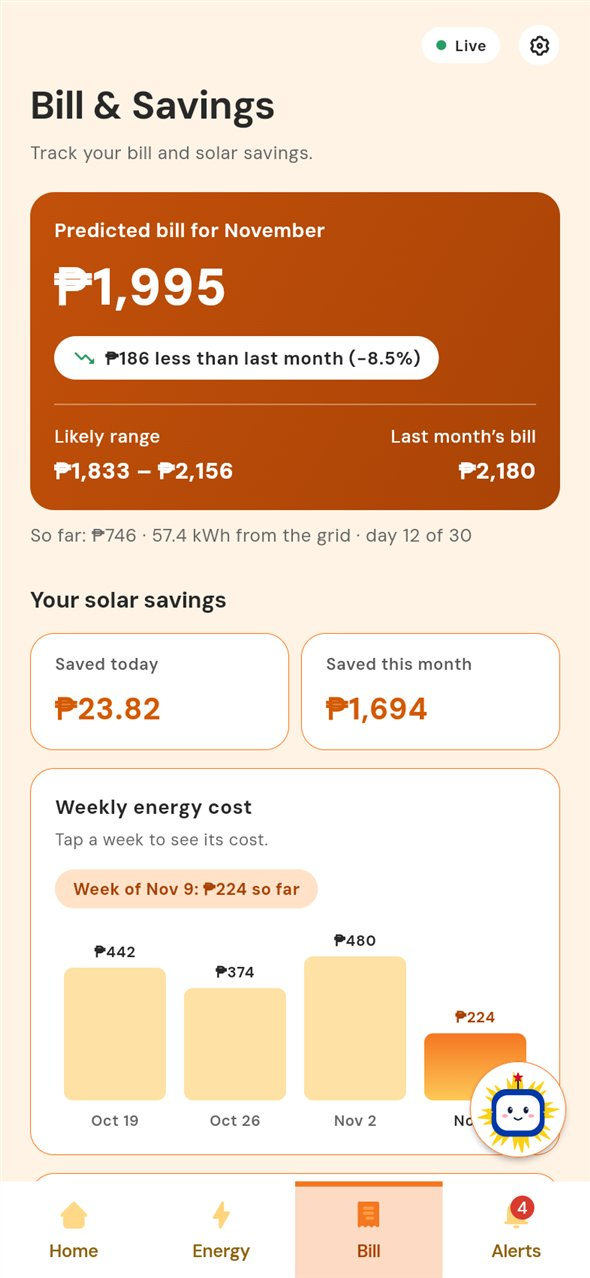
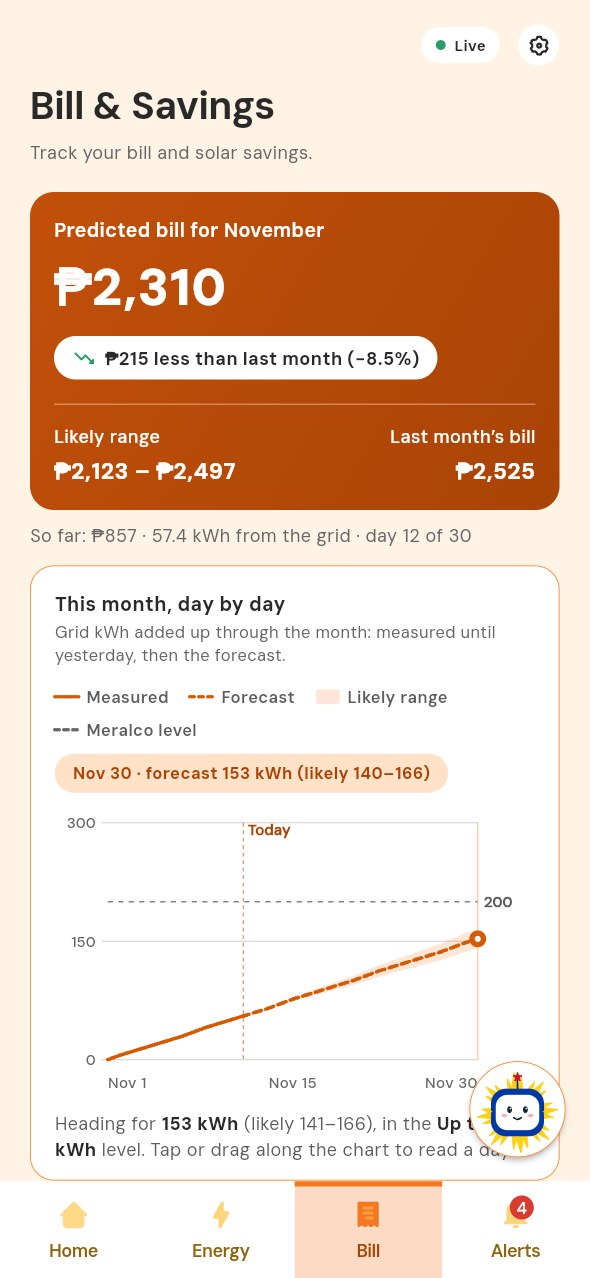
Landing page: features from the presentation, current app screens
The page described a solar-only monitor with the old demo numbers. It now
follows SOLARIS_PRESENTATION.md:

- Hero: inverter, smart meter, or both; bill forecast with the rate-level
  warning; the strip names the three setups, the routine and Mira's sources.
- New #features: one card per feature slide (live monitoring, bill and
  coming months, 48-hour solar and battery, tips and system check, the
  household, smart meter mode, Mira with sources, alerts).
- New #meter (smart meter mode and the three setups) and #meralco (what
  works today vs. needs a partnership, and privacy).
- Ask Mira: sources, honest limits, the script's questions.
- Gallery: adds Solar tips, Your household and System check.
- FAQ: which homes, meters, published rate, "Does Meralco see my data?".
- Numbers match the app at Meralco's published rate (857 / 2,310 /
  2,123-2,497); every phone screen recaptured from the current app,
  day and night, plus the new tips, household, check and meter screens.
- Presentation: meter level-warning saving is 2,369 at that rate.

diff --git a/landing/index.html b/landing/index.html
@@ -3,11 +3,11 @@
 <head>
 <meta charset="utf-8">
 <meta name="viewport" content="width=device-width, initial-scale=1, viewport-fit=cover">
-<title>Solaris: solar monitor and app for Filipino homes</title>
-<meta name="description" content="Solaris reads your hybrid inverter every 5 seconds, forecasts the Meralco bill and has Mira explain it in Taglish, all on your home network.">
+<title>Solaris: energy monitor and app for Filipino homes</title>
+<meta name="description" content="Solaris reads your hybrid inverter, your smart meter, or both. It forecasts the Meralco bill, warns before a rate level, learns your home's routine, and Mira explains it in Taglish, all on your home network.">
 <meta property="og:type" content="website">
-<meta property="og:title" content="Solaris: solar monitor and app for Filipino homes">
-<meta property="og:description" content="Live solar, battery and grid readings, a bill forecast and Mira, an assistant that answers in Taglish.">
+<meta property="og:title" content="Solaris: energy monitor and app for Filipino homes">
+<meta property="og:description" content="Live solar, battery, grid and meter readings, a Meralco bill forecast, solar tips and Mira, an assistant that answers in Taglish and shows her sources.">
 <meta property="og:image" content="share.jpg">
 <meta name="twitter:card" content="summary_large_image">
 <link rel="icon" href="favicon.svg" type="image/svg+xml">
@@ -459,6 +459,36 @@ html[data-theme="dark"][data-ground="orange"] { --ground-bg: #1a2440; --ground-s
   footer.closing .close__word { margin-top: var(--s-6); line-height: 1.02; font-size: clamp(56px, 11vw, 168px) !important; font-weight: 600; letter-spacing: -0.05em;
                  background: linear-gradient(100deg, #fff8f0 30%, #ffb27a 70%, #f47721); -webkit-background-clip: text; background-clip: text; color: transparent !important; -webkit-text-fill-color: transparent; }
   .footer__col h3 { font-weight: 600; }
+
+  /* ================= what Solaris does: one card per feature ================= */
+  .feats { display: grid; grid-template-columns: repeat(4, minmax(0, 1fr)); gap: 16px; margin: var(--s-7) 0 0; padding: 0; list-style: none; }
+  .feat { display: grid; align-content: start; gap: 10px; padding: 22px 20px; border-radius: 20px; background: var(--p-bg); box-shadow: inset 0 0 0 1px var(--line); }
+  .feat__ic { display: grid; place-items: center; width: 40px; height: 40px; border-radius: 12px; color: var(--accent-text); background: color-mix(in oklab, #f47721 14%, transparent); }
+  .feat__ic svg { width: 22px; height: 22px; }
+  .feat h3 { margin: 4px 0 0; font-size: 18px; font-weight: 600; line-height: 1.25; }
+  .feat p { margin: 0; font-size: 15px; line-height: 1.5; color: var(--muted); }
+  @media (max-width: 1023px) { .feats { grid-template-columns: repeat(2, minmax(0, 1fr)); } }
+  @media (max-width: 559px) { .feats { grid-template-columns: minmax(0, 1fr); } }
+
+  /* ================= three setups ================= */
+  .setups { display: grid; grid-template-columns: repeat(3, minmax(0, 1fr)); gap: 12px; margin: 0; padding: 0; list-style: none; }
+  .setups li { display: grid; gap: 4px; align-content: start; padding: 14px 16px; border-radius: 16px; background: var(--p-surface); box-shadow: inset 0 0 0 1px var(--line); }
+  .setups b { font-weight: 600; }
+  .setups span { font-size: 14px; line-height: 1.45; color: var(--muted); }
+  @media (max-width: 639px) { .setups { grid-template-columns: minmax(0, 1fr); } }
+  #meter .showcase__phones::before { background: radial-gradient(60% 55% at 40% 40%, rgb(255 200 87 / .3), transparent 70%), linear-gradient(160deg, var(--p-surface), transparent); }
+
+  /* ================= for Meralco: what works today ================= */
+  .serve { display: grid; grid-template-columns: repeat(2, minmax(0, 1fr)); gap: 12px 24px; margin: var(--s-7) 0 0; padding: 0; list-style: none; }
+  .serve li { display: grid; grid-template-columns: minmax(0, 1fr) auto; gap: 4px 16px; align-items: start; padding: 16px 0; border-top: 1px solid var(--line); }
+  .serve b { font-weight: 600; }
+  .serve p { grid-column: 1 / -1; margin: 0; font-size: 15px; line-height: 1.5; color: var(--muted); }
+  .serve em { font-style: normal; font-size: 13px; font-weight: 600; white-space: nowrap; padding: 3px 10px; border-radius: 99px; color: var(--accent-text); background: color-mix(in oklab, #f47721 12%, transparent); }
+  .serve em.is-next { color: var(--muted); background: color-mix(in oklab, var(--ink) 7%, transparent); }
+  .privacy { display: flex; gap: 14px; align-items: flex-start; margin-top: var(--s-6); padding: 18px 20px; border-radius: 16px; background: var(--p-surface); box-shadow: inset 0 0 0 1px var(--line); }
+  .privacy svg { flex: none; width: 22px; height: 22px; margin-top: 2px; color: var(--accent-text); }
+  .privacy p { margin: 0; max-width: 80ch; }
+  @media (max-width: 767px) { .serve { grid-template-columns: minmax(0, 1fr); } }
 </style>
 </head>
 <body>
@@ -473,9 +503,10 @@ html[data-theme="dark"][data-ground="orange"] { --ground-bg: #1a2440; --ground-s
     <a class="skip-link" href="#top">Skip to content</a>
     <a class="nav__logo" href="#top"><span class="mark" data-mark="ring" aria-hidden="true"></span>Solaris</a>
     <nav class="nav__links" aria-label="Main">
-      <div class="nav__item"><a class="nav__link" href="#top">Home</a></div>
+      <div class="nav__item"><a class="nav__link" href="#features">Features</a></div>
       <div class="nav__item"><a class="nav__link" href="#app">Ask Mira</a></div>
       <div class="nav__item"><a class="nav__link" href="#forecast">The app</a></div>
+      <div class="nav__item"><a class="nav__link" href="#meter">No solar yet?</a></div>
       <div class="nav__item"><a class="nav__link" href="#setup">Setup</a></div>
       <div class="nav__item"><a class="nav__link" href="#questions">Questions</a></div>
     </nav>
@@ -502,25 +533,76 @@ html[data-theme="dark"][data-ground="orange"] { --ground-bg: #1a2440; --ground-s
         </div>
         <div class="ui gcard">
           <div class="gcard__head"><span>November bill</span><span class="gcard__meta">Forecast</span></div>
-          <div class="gcard__row"><div><small>So far</small><b>&#8369;746</b></div><div><small>Likely</small><b>&#8369;1,995</b></div><div><small>Range</small><b>&#8369;1.8k&ndash;2.2k</b></div></div>
+          <div class="gcard__row"><div><small>So far</small><b>&#8369;857</b></div><div><small>Likely</small><b>&#8369;2,310</b></div><div><small>Range</small><b>&#8369;2.1k&ndash;2.5k</b></div></div>
         </div>
       </div>
       <div class="studio__main">
         <div class="studio__copy">
-          <h1 id="hero-h">Your home solar, made clear</h1>
-          <p class="studio__lead">Solaris reads your hybrid inverter every 5 seconds, forecasts your Meralco bill and tells you how long the battery lasts in a brownout. Mira explains it in Taglish.</p>
+          <h1 id="hero-h">Your home&rsquo;s energy, made clear</h1>
+          <p class="studio__lead">Solaris reads your inverter, your smart meter, or both. It forecasts your Meralco bill, warns before a costlier rate level, and Mira explains it all in Taglish.</p>
         </div>
         <div class="studio__ctas">
           <a class="btn btn--primary" href="mailto:hello@solaris.example?subject=Solaris%20demo">Book a demo<svg class="up" viewBox="0 0 12 12" aria-hidden="true"><path d="M3.5 8.5 8.5 3.5M4.5 3.5h4v4" fill="none" stroke="currentColor" stroke-width="1.5" stroke-linecap="round" stroke-linejoin="round"/></svg></a>
-          <a class="studio__link" href="#app">See how it works<svg class="up" viewBox="0 0 12 12" aria-hidden="true"><path d="M3.5 8.5 8.5 3.5M4.5 3.5h4v4" fill="none" stroke="currentColor" stroke-width="1.5" stroke-linecap="round" stroke-linejoin="round"/></svg></a>
+          <a class="studio__link" href="#features">See what it does<svg class="up" viewBox="0 0 12 12" aria-hidden="true"><path d="M3.5 8.5 8.5 3.5M4.5 3.5h4v4" fill="none" stroke="currentColor" stroke-width="1.5" stroke-linecap="round" stroke-linejoin="round"/></svg></a>
         </div>
       </div>
       <ul class="studio__strip">
-        <li><svg viewBox="0 0 24 24" fill="none" stroke="currentColor" stroke-width="1.6" stroke-linecap="round" stroke-linejoin="round" aria-hidden="true"><path d="M13 2 4 14h7l-1 8 9-12h-7z"/></svg>Live readings every 5 seconds</li>
-        <li><svg viewBox="0 0 24 24" fill="none" stroke="currentColor" stroke-width="1.6" stroke-linecap="round" stroke-linejoin="round" aria-hidden="true"><path d="M6 2.5h12v19l-3-2-3 2-3-2-3 2z"/><path d="M9 8h6M9 12h6M9 16h3"/></svg>Meralco bill forecast</li>
+        <li><svg viewBox="0 0 24 24" fill="none" stroke="currentColor" stroke-width="1.6" stroke-linecap="round" stroke-linejoin="round" aria-hidden="true"><path d="M13 2 4 14h7l-1 8 9-12h-7z"/></svg>Solar, a meter, or both</li>
+        <li><svg viewBox="0 0 24 24" fill="none" stroke="currentColor" stroke-width="1.6" stroke-linecap="round" stroke-linejoin="round" aria-hidden="true"><path d="M6 2.5h12v19l-3-2-3 2-3-2-3 2z"/><path d="M9 8h6M9 12h6M9 16h3"/></svg>Bill forecast, rate-level warning</li>
         <li><svg viewBox="0 0 24 24" fill="none" stroke="currentColor" stroke-width="1.6" stroke-linecap="round" stroke-linejoin="round" aria-hidden="true"><rect x="2.5" y="7" width="16" height="10" rx="2"/><path d="M21.5 10.5v3M6 10.5v3M9.5 10.5v3"/></svg>Brownout battery timer</li>
-        <li><svg viewBox="0 0 24 24" fill="none" stroke="currentColor" stroke-width="1.6" stroke-linecap="round" stroke-linejoin="round" aria-hidden="true"><circle cx="12" cy="12" r="4"/><path d="M12 2v2.5M12 19.5V22M4.9 4.9l1.8 1.8M17.3 17.3l1.8 1.8M2 12h2.5M19.5 12H22M4.9 19.1l1.8-1.8M17.3 6.7l1.8-1.8"/></svg>48-hour solar outlook</li>
-        <li><svg viewBox="0 0 24 24" fill="none" stroke="currentColor" stroke-width="1.6" stroke-linecap="round" stroke-linejoin="round" aria-hidden="true"><path d="M4 5.5h16v10H9l-5 4z"/><path d="M8 9.5h8M8 12.5h5"/></svg>Answers in Taglish from Mira</li>
+        <li><svg viewBox="0 0 24 24" fill="none" stroke="currentColor" stroke-width="1.6" stroke-linecap="round" stroke-linejoin="round" aria-hidden="true"><path d="M3 11.5 12 4l9 7.5"/><path d="M5.5 10v9.5h13V10"/><path d="M10 19.5v-5h4v5"/></svg>Learns your home&rsquo;s routine</li>
+        <li><svg viewBox="0 0 24 24" fill="none" stroke="currentColor" stroke-width="1.6" stroke-linecap="round" stroke-linejoin="round" aria-hidden="true"><path d="M4 5.5h16v10H9l-5 4z"/><path d="M8 9.5h8M8 12.5h5"/></svg>Mira answers, with sources</li>
+      </ul>
+    </div>
+  </section>
+
+  <section class="section section--alt" id="features" aria-labelledby="features-h">
+    <div class="wrap">
+      <div class="split-head">
+        <div><p class="eyebrow">What Solaris does</p><h2 id="features-h">Where your energy and your money go, in one app</h2></div>
+        <div><p>Owning solar, or paying a Meralco bill, does not mean understanding your energy. Solaris shows what is happening now, what happened before, and what is coming next.</p></div>
+      </div>
+      <ul class="feats">
+        <li class="feat">
+          <span class="feat__ic"><svg viewBox="0 0 24 24" fill="none" stroke="currentColor" stroke-width="1.7" stroke-linecap="round" stroke-linejoin="round" aria-hidden="true"><path d="M13 2 4 14h7l-1 8 9-12h-7z"/></svg></span>
+          <h3>Live home monitoring</h3>
+          <p>Solar, home use, battery and the grid every 5 seconds, with the grid labelled importing or exporting, today&rsquo;s savings and the inverter&rsquo;s health.</p>
+        </li>
+        <li class="feat">
+          <span class="feat__ic"><svg viewBox="0 0 24 24" fill="none" stroke="currentColor" stroke-width="1.7" stroke-linecap="round" stroke-linejoin="round" aria-hidden="true"><path d="M6 2.5h12v19l-3-2-3 2-3-2-3 2z"/><path d="M9 8h6M9 12h6M9 16h3"/></svg></span>
+          <h3>The bill, before it arrives</h3>
+          <p>Cost so far and the month-end forecast with a low and a high, priced with Meralco&rsquo;s rate levels, plus the next three months, marked as estimates.</p>
+        </li>
+        <li class="feat">
+          <span class="feat__ic"><svg viewBox="0 0 24 24" fill="none" stroke="currentColor" stroke-width="1.7" stroke-linecap="round" stroke-linejoin="round" aria-hidden="true"><circle cx="12" cy="12" r="4"/><path d="M12 2v2.5M12 19.5V22M4.9 4.9l1.8 1.8M17.3 17.3l1.8 1.8M2 12h2.5M19.5 12H22M4.9 19.1l1.8-1.8M17.3 6.7l1.8-1.8"/></svg></span>
+          <h3>Solar and battery, 48 hours ahead</h3>
+          <p>Hourly sun from the weather, calibrated to your own panels, gives the battery level, grid use and brownout runtime for the next two days.</p>
+        </li>
+        <li class="feat">
+          <span class="feat__ic"><svg viewBox="0 0 24 24" fill="none" stroke="currentColor" stroke-width="1.7" stroke-linecap="round" stroke-linejoin="round" aria-hidden="true"><path d="M12 21c-4-3-7-6.5-7-10.5a7 7 0 0 1 14 0C19 14.5 16 18 12 21z"/><path d="M12 7v7M9 11l3 3 3-3"/></svg></span>
+          <h3>Solar tips and a system check</h3>
+          <p>Today&rsquo;s sunniest window, what to run right now, habits ranked by the pesos they save, CO&#8322; avoided, and whether your battery still fits the home.</p>
+        </li>
+        <li class="feat">
+          <span class="feat__ic"><svg viewBox="0 0 24 24" fill="none" stroke="currentColor" stroke-width="1.7" stroke-linecap="round" stroke-linejoin="round" aria-hidden="true"><path d="M3 11.5 12 4l9 7.5"/><path d="M5.5 10v9.5h13V10"/><path d="M10 19.5v-5h4v5"/></svg></span>
+          <h3>Learns the household</h3>
+          <p>From power readings alone: when the family wakes, leaves and sleeps, the always-on load in pesos, and a new appliance before the bill shows it.</p>
+        </li>
+        <li class="feat">
+          <span class="feat__ic"><svg viewBox="0 0 24 24" fill="none" stroke="currentColor" stroke-width="1.7" stroke-linecap="round" stroke-linejoin="round" aria-hidden="true"><rect x="5" y="3" width="14" height="18" rx="2.5"/><path d="M8.5 8h7M8.5 12h7"/><circle cx="12" cy="16.5" r="1"/></svg></span>
+          <h3>Smart meter mode</h3>
+          <p>No solar yet? Solaris works with a smart meter or the Meralco meter alone: voltage quality, usage pattern, and an early warning before a costlier rate level.</p>
+        </li>
+        <li class="feat">
+          <span class="feat__ic"><svg viewBox="0 0 24 24" fill="none" stroke="currentColor" stroke-width="1.7" stroke-linecap="round" stroke-linejoin="round" aria-hidden="true"><path d="M4 5.5h16v10H9l-5 4z"/><path d="M8 9.5h8M8 12.5h5"/></svg></span>
+          <h3>Mira, with sources</h3>
+          <p>Ask in Taglish. Mira answers from your own readings, shows where every number comes from, and says plainly when something is only an estimate.</p>
+        </li>
+        <li class="feat">
+          <span class="feat__ic"><svg viewBox="0 0 24 24" fill="none" stroke="currentColor" stroke-width="1.7" stroke-linecap="round" stroke-linejoin="round" aria-hidden="true"><path d="M6 16V11a6 6 0 0 1 12 0v5l1.5 2h-15z"/><path d="M10 20.5a2 2 0 0 0 4 0"/></svg></span>
+          <h3>Alerts that say what to do</h3>
+          <p>Brownout and power back, low battery, heat, inverter faults, a device offline or a new load, each with the next step, even if the app was closed.</p>
+        </li>
       </ul>
     </div>
   </section>
@@ -530,17 +612,19 @@ html[data-theme="dark"][data-ground="orange"] { --ground-bg: #1a2440; --ground-s
       <div class="showcase__copy">
         <p class="eyebrow">Ask Mira</p>
         <h2 id="app-h">Ask about your power in Taglish</h2>
-        <p>Mira reads your live numbers before she answers. Ask &ldquo;Bakit mataas ang bill ko?&rdquo; and she gives your bill so far, the forecast and the hours you buy most from the grid, with where each figure comes from.</p>
+        <p>Mira reads your own numbers before she answers. Ask &ldquo;Bakit mataas ang bill ko?&rdquo; and she gives your bill so far, the forecast and the hours you buy most from the grid. Under every answer, &ldquo;Where this answer comes from&rdquo; lists the readings behind it; tap one to open that screen.</p>
+        <p>She is honest about her limits: estimates are called estimates, and a bill a year away gets an explanation, not a guess. Mira runs on the home&rsquo;s own computer, so your questions stay private.</p>
         <ul class="asks" aria-label="Questions people ask Mira">
           <li lang="fil">Bakit mataas ang bill ko?</li>
-          <li lang="fil">Kakayanin ba ng battery mamaya?</li>
-          <li lang="fil">Magkano ang natipid ko dahil sa solar?</li>
+          <li lang="fil">Magkano ang bill ko sa Disyembre?</li>
+          <li lang="fil">Nasaang Meralco level na ako ngayong buwan?</li>
+          <li lang="fil">May bago ba kaming appliance?</li>
         </ul>
         <a class="link" href="#forecast">See the other screens</a>
       </div>
       <div class="showcase__phones">
-        <div class="phone phone--back"><img class="shot shot--day" src="assets/app/home-day.jpg" alt="The Solaris Home screen: the house with solar at 3.1 kW, home use 1.8 kW, the battery at 78% and charging" width="590" height="1278" loading="lazy"><img class="shot shot--night" src="assets/app/home-night.jpg" alt="" aria-hidden="true" width="590" height="1278" loading="lazy"></div>
-        <div class="phone phone--front"><img class="shot shot--day" src="assets/app/ask-day.jpg" alt="Ask Mira: the question Bakit mataas ang bill ko, and Mira answering that the bill is 746 pesos so far with a 1,995 peso forecast, with her three sources" width="590" height="1278" loading="lazy"><img class="shot shot--night" src="assets/app/ask-night.jpg" alt="" aria-hidden="true" width="590" height="1278" loading="lazy"></div>
+        <div class="phone phone--back"><img class="shot shot--day" src="assets/app/home-day.jpg" alt="The Solaris Home screen: the house with solar at 3.1 kW, home use 1.8 kW, the battery at 78% and charging, 27.60 pesos saved today at 15.06 pesos per kWh" width="590" height="1278" loading="lazy"><img class="shot shot--night" src="assets/app/home-night.jpg" alt="" aria-hidden="true" width="590" height="1278" loading="lazy"></div>
+        <div class="phone phone--front"><img class="shot shot--day" src="assets/app/ask-day.jpg" alt="Ask Mira: Mira answering that the bill is 857 pesos so far with a 2,310 peso forecast, and the three sources her answer comes from" width="590" height="1278" loading="lazy"><img class="shot shot--night" src="assets/app/ask-night.jpg" alt="" aria-hidden="true" width="590" height="1278" loading="lazy"></div>
       </div>
     </div>
   </section>
@@ -551,14 +635,14 @@ html[data-theme="dark"][data-ground="orange"] { --ground-bg: #1a2440; --ground-s
         <div class="billcard__copy">
           <p class="eyebrow eyebrow--on-brand">Bill &amp; Savings</p>
           <h2 id="bill-h">Know the bill before it arrives</h2>
-          <p>Solaris counts your grid use every day at your Meralco rate and shows where the month is likely to end, with a low and a high beside it.</p>
+          <p>Solaris counts your grid use every day, prices it the way Meralco does, with the rate level the whole month lands in, and shows where the month is likely to end, with a low and a high beside it. The next three months follow, marked as estimates.</p>
           <dl class="billcard__facts">
-            <div><dt>So far</dt><dd>&#8369;746</dd></div>
-            <div><dt>Predicted for November</dt><dd>&#8369;1,995</dd></div>
-            <div><dt>Likely range</dt><dd>&#8369;1,833&ndash;&#8369;2,156</dd></div>
+            <div><dt>So far</dt><dd>&#8369;857</dd></div>
+            <div><dt>Predicted for November</dt><dd>&#8369;2,310</dd></div>
+            <div><dt>Likely range</dt><dd>&#8369;2,123&ndash;&#8369;2,497</dd></div>
           </dl>
         </div>
-        <div class="billcard__phone"><div class="phone "><img class="shot shot--day" src="assets/app/bill-day.jpg" alt="The Bill and Savings screen: 1,995 pesos predicted for November, 186 pesos less than last month, a likely range of 1,833 to 2,156 pesos, and 1,694 pesos saved this month" width="590" height="1278" loading="lazy"><img class="shot shot--night" src="assets/app/bill-night.jpg" alt="" aria-hidden="true" width="590" height="1278" loading="lazy"></div></div>
+        <div class="billcard__phone"><div class="phone "><img class="shot shot--day" src="assets/app/bill-day.jpg" alt="The Bill and Savings screen: 2,310 pesos predicted for November, 215 pesos less than last month, a likely range of 2,123 to 2,497 pesos, and last month's bill of 2,525 pesos" width="590" height="1278" loading="lazy"><img class="shot shot--night" src="assets/app/bill-night.jpg" alt="" aria-hidden="true" width="590" height="1278" loading="lazy"></div></div>
       </div>
     </div>
   </section>
@@ -567,7 +651,7 @@ html[data-theme="dark"][data-ground="orange"] { --ground-bg: #1a2440; --ground-s
     <div class="wrap">
       <div class="split-head">
         <div><p class="eyebrow">Inside the app</p><h2 id="forecast-h">The Solaris app, screen by screen</h2></div>
-        <div><p>Real screens from the app, in Taglish and English. It follows the time of day: cream by day, navy at night.</p></div>
+        <div><p>Real screens from the app, in Taglish and English, cream by day and navy at night.</p></div>
       </div>
       <div class="gallery">
         <article class="gallery__item">
@@ -576,15 +660,71 @@ html[data-theme="dark"][data-ground="orange"] { --ground-bg: #1a2440; --ground-s
           <p>Solar, home use and the grid by day, week or month, with how much of your power was your own.</p>
         </article>
         <article class="gallery__item">
+          <div class="phone "><img class="shot shot--day" src="assets/app/tips-day.jpg" alt="Solar tips on Home: 151 kg of CO2 avoided this month, like 7 trees growing for a year, and today's sunniest window, 10AM to 1PM, with 5.9 kWh of extra solar" width="590" height="1278" loading="lazy"><img class="shot shot--night" src="assets/app/tips-night.jpg" alt="" aria-hidden="true" width="590" height="1278" loading="lazy"></div>
+          <h3>Use the sun you already have</h3>
+          <p>Today&rsquo;s best window for laundry and ironing, what to run right now, habits ranked by what they save, and the CO&#8322; your panels avoided.</p>
+        </article>
+        <article class="gallery__item">
+          <div class="phone "><img class="shot shot--day" src="assets/app/household-day.jpg" alt="Your household on Home: probably no one home right now, and a new appliance, about 1.1 kW more every night from 9PM to 2AM since Nov 7, up to 2,485 pesos a month" width="590" height="1278" loading="lazy"><img class="shot shot--night" src="assets/app/household-night.jpg" alt="" aria-hidden="true" width="590" height="1278" loading="lazy"></div>
+          <h3>Spot a new appliance early</h3>
+          <p>Your routine, who is likely home now, the always-on load in pesos, and a new nightly load before the bill shows it. It never leaves the house.</p>
+        </article>
+        <article class="gallery__item">
+          <div class="phone "><img class="shot shot--day" src="assets/app/check-day.jpg" alt="The system check on Bill: an upgrade worth considering, a 5 kWh battery, about 1,581 pesos saved a month, paying back in about 5.3 years" width="590" height="1278" loading="lazy"><img class="shot shot--night" src="assets/app/check-night.jpg" alt="" aria-hidden="true" width="590" height="1278" loading="lazy"></div>
+          <h3>Check the system still fits</h3>
+          <p>From the last 30 days: does the battery run empty while solar goes to waste? An upgrade comes with a rough monthly saving and payback.</p>
+        </article>
+        <article class="gallery__item">
           <div class="phone "><img class="shot shot--day" src="assets/app/brownout-day.jpg" alt="The Brownout Advisor: brownout in progress, about 7.1 hours of battery left, battery at 64%, and Mira advising which appliances to keep on" width="590" height="1278" loading="lazy"><img class="shot shot--night" src="assets/app/brownout-night.jpg" alt="" aria-hidden="true" width="590" height="1278" loading="lazy"></div>
           <h3>Know how long the battery lasts</h3>
-          <p>In a brownout, the hours left at your current load, what to switch off, and the next 48 hours of sun.</p>
+          <p>In a brownout, the hours left at your current load, counting the sun still to come, what to switch off, and the next 48 hours of solar.</p>
         </article>
         <article class="gallery__item">
           <div class="phone "><img class="shot shot--day" src="assets/app/alerts-day.jpg" alt="The Alerts screen: a hot inverter, low battery, an inverter fault and a brownout, each in Taglish with what to do" width="590" height="1278" loading="lazy"><img class="shot shot--night" src="assets/app/alerts-night.jpg" alt="" aria-hidden="true" width="590" height="1278" loading="lazy"></div>
           <h3>Act on alerts in Taglish</h3>
-          <p>Heat, low battery, faults and brownouts arrive with what they mean and the next step.</p>
+          <p>Brownouts, low battery, heat, faults, a device offline or a new load arrive with what they mean and the next step, even ones missed while the app was closed.</p>
         </article>
+      </div>
+    </div>
+  </section>
+
+  <section class="section section--alt" id="meter" aria-labelledby="meter-h">
+    <div class="wrap showcase">
+      <div class="showcase__copy">
+        <p class="eyebrow">Smart meter mode</p>
+        <h2 id="meter-h">No solar yet? Solaris works with the meter alone</h2>
+        <p>Solaris reads a smart meter or the Meralco meter live: power, voltage, current and power factor. It checks that the voltage is healthy, learns when your home uses the most, and tracks which Meralco rate level the month is heading for.</p>
+        <p>Because the whole month is priced at one level, crossing it raises the cost of every kWh. Solaris warns early: &ldquo;132 kWh above the 400 kWh level; cut about 7 kWh a day and save around &#8369;2,369.&rdquo;</p>
+        <ul class="setups" aria-label="The three setups">
+          <li><b>Solar</b><span>Reads the hybrid inverter: solar, battery, home and grid.</span></li>
+          <li><b>Smart meter only</b><span>For homes without solar: use, voltage and the Meralco level.</span></li>
+          <li><b>Solar + meter</b><span>Both; the meter gives the exact kWh Meralco bills.</span></li>
+        </ul>
+      </div>
+      <div class="showcase__phones">
+        <div class="phone phone--back"><img class="shot shot--day" src="assets/app/meter-day.jpg" alt="Home in smart meter mode: the house without panels or battery, labelled HOME 1.4 kW and GRID 228 volts, normal, with the live meter card below" width="590" height="1278" loading="lazy"><img class="shot shot--night" src="assets/app/meter-night.jpg" alt="" aria-hidden="true" width="590" height="1278" loading="lazy"></div>
+        <div class="phone phone--front"><img class="shot shot--day" src="assets/app/metersave-day.jpg" alt="Ways to save in smart meter mode: a forecast of 532 kWh, 132 kWh above the 400 kWh level, and cutting about 7 kWh a day could save about 2,369 pesos" width="590" height="1278" loading="lazy"><img class="shot shot--night" src="assets/app/metersave-night.jpg" alt="" aria-hidden="true" width="590" height="1278" loading="lazy"></div>
+      </div>
+    </div>
+  </section>
+
+  <section class="section" id="meralco" aria-labelledby="meralco-h">
+    <div class="wrap">
+      <div class="split-head">
+        <div><p class="eyebrow">For Meralco</p><h2 id="meralco-h">A better-informed customer is an easier customer to serve</h2></div>
+        <div><p>Solaris was built for the household. The same information can answer &ldquo;Bakit mataas ang bill ko?&rdquo; before the bill arrives, and help Meralco serve its customers better.</p></div>
+      </div>
+      <ul class="serve">
+        <li><b>High-bill questions</b><em>Works today</em><p>Cost so far, the month-end forecast with a range, the rate-level warning and what changed, in the app and from Mira.</p></li>
+        <li><b>Explaining rate levels</b><em>Works today</em><p>The level the month is heading for, and how many kWh a day to cut to stay below the next one.</p></li>
+        <li><b>Usage tracking</b><em>Works today</em><p>Hourly use, peak hours, night share, weekdays against weekends, the always-on load and the meter&rsquo;s import reading.</p></li>
+        <li><b>Net-metering questions</b><em>Works today</em><p>Solar + meter mode uses the meter&rsquo;s billed kWh and shows what the home exports.</p></li>
+        <li><b>Outage and voltage reports</b><em class="is-next">Needs a partnership</em><p>Brownout start and restore times and low or high voltage are recorded at the home today; sending them to Meralco needs a data link.</p></li>
+        <li><b>Customer profiling</b><em class="is-next">Needs consent</em><p>Household type, always-on load and new appliances, shared only as an opt-in summary, for better-targeted programs.</p></li>
+      </ul>
+      <div class="privacy">
+        <svg viewBox="0 0 24 24" fill="none" stroke="currentColor" stroke-width="1.7" stroke-linecap="round" stroke-linejoin="round" aria-hidden="true"><path d="M12 3 4.5 6v5.5c0 4.5 3.2 8 7.5 9.5 4.3-1.5 7.5-5 7.5-9.5V6z"/><path d="m9 12 2 2 4-4"/></svg>
+        <p><b>Privacy comes first.</b> Everything runs on a computer inside the home, Mira included. Nothing leaves the house unless the household chooses to share it, and the daily routine, such as when the family is away, is never shared.</p>
       </div>
     </div>
   </section>
@@ -597,11 +737,13 @@ html[data-theme="dark"][data-ground="orange"] { --ground-bg: #1a2440; --ground-s
       </div>
       <div>
         <div class="faq faq--cols">
-          <div class="faq__item"><h3>Which inverters does Solaris work with?</h3><p>Hybrid inverters with an RS485 Modbus port. A new brand needs its register map added first.</p></div>
+          <div class="faq__item"><h3>Which homes can use Solaris?</h3><p>Homes with solar and a hybrid inverter, homes with only a smart meter or the Meralco meter, and solar homes with both, where the meter gives the billed kWh.</p></div>
+          <div class="faq__item"><h3>Which inverters and meters does it read?</h3><p>Hybrid inverters with an RS485 Modbus port, SDM120-style smart meters on the same line, and utility meters over ANSI C12.18. A new brand needs its register map added first.</p></div>
+          <div class="faq__item"><h3>How does Solaris forecast the bill?</h3><p>From your daily grid use so far and your recent pattern, priced with Meralco&rsquo;s published rate (fetched automatically; &#8369;15.06 per kWh for October 2026) and its consumption levels.</p></div>
+          <div class="faq__item"><h3>Does Mira make up numbers?</h3><p>No. She answers from your own readings, lists the source of every figure under the answer, and tests check she adds no new ones.</p></div>
+          <div class="faq__item"><h3>Does Meralco see my data?</h3><p>No, not by default. Everything stays on the computer in your home. Any sharing would be opt-in, a summary rather than raw readings, and never when your family is home or away.</p></div>
           <div class="faq__item"><h3>Does Solaris need the internet?</h3><p>No. Everything runs on your home network. Offline, the solar forecast uses your last 14 days in place of the weather.</p></div>
-          <div class="faq__item"><h3>How does Solaris forecast the bill?</h3><p>From your daily grid use so far, at your Meralco rate: &#8369;15.06 per kWh unless you set another.</p></div>
-          <div class="faq__item"><h3>Does Mira make up numbers?</h3><p>No. She answers from your own readings, and tests check she adds no new figures.</p></div>
-          <div class="faq__item"><h3>What happens during a brownout?</h3><p>Solaris alerts your phone, and the Brownout Advisor shows how long the battery lasts at your current load, with Mira&rsquo;s advice.</p></div>
+          <div class="faq__item"><h3>What happens during a brownout?</h3><p>Solaris alerts your phone, and the Brownout Advisor shows how long the battery lasts at your current load, counting the sun still to come, with Mira&rsquo;s advice.</p></div>
           <div class="faq__item"><h3>Can I buy a Solaris today?</h3><p>Not yet. It is a working prototype by Team Visionaries of PLV, built for the IDOL Hackathon 2026.</p></div>
         </div>
       </div>
@@ -613,17 +755,17 @@ html[data-theme="dark"][data-ground="orange"] { --ground-bg: #1a2440; --ground-s
       <div class="grid">
         <div class="span-5 stack-5">
           <p class="eyebrow">How it connects</p>
-          <h2 id="setup-h">Wires into your inverter&rsquo;s RS485 port</h2>
-          <p class="t-lead">A small Solaris device reads the hybrid inverter over Modbus and sends each reading over Wi-Fi to a laptop at home.</p>
+          <h2 id="setup-h">Reads your inverter, your meter, or both</h2>
+          <p class="t-lead">A small Solaris device polls the hybrid inverter and the meter every 5 seconds and sends each reading over Wi-Fi to a computer at home, which keeps the history, learns the routine and makes the forecasts.</p>
           <ul class="facts-list">
-            <li><span><b>Device:</b> an ESP32 with an RS485 adapter</span></li>
-            <li><span><b>Server:</b> FastAPI and SQLite on your laptop</span></li>
+            <li><span><b>Device:</b> an ESP32 on the inverter&rsquo;s RS485 port, with the meter on the same line</span></li>
+            <li><span><b>Server:</b> FastAPI and SQLite on a computer in the home</span></li>
             <li><span><b>Mira:</b> Qwen 3.5 on Ollama, no cloud account</span></li>
           </ul>
           <a class="link" href="#questions">Read the setup questions</a>
         </div>
         <div class="frame frame--split frame--lit span-6 start-7" data-visual>
-          <div class="dg" data-diagram><script type="application/json">{"layout": "lanes", "motion": {"pulse": "none"}, "alt": "The hybrid inverter's readings go to the Solaris device, then to the app, the alerts and Mira at once.", "curve": "curve", "input": {"label": "Inverter", "icon": "ui:zap", "meta": "RS485"}, "core": {"label": "Solaris", "icon": "ui:microchip"}, "lanes": [{"label": "App", "icon": "ui:smartphone", "sub": "Every 5 s", "done": true}, {"label": "Alerts", "icon": "ui:bell-ring", "sub": "Brownouts", "done": true}, {"label": "Mira", "icon": "ui:bot", "sub": "In Taglish", "done": true}]}</script></div>
+          <div class="dg" data-diagram><script type="application/json">{"layout": "lanes", "motion": {"pulse": "none"}, "alt": "Readings from the hybrid inverter or the meter go to the Solaris device, then to the app, the alerts and Mira at once.", "curve": "curve", "input": {"label": "Inverter / meter", "icon": "ui:zap", "meta": "RS485"}, "core": {"label": "Solaris", "icon": "ui:microchip"}, "lanes": [{"label": "App", "icon": "ui:smartphone", "sub": "Every 5 s", "done": true}, {"label": "Alerts", "icon": "ui:bell-ring", "sub": "Brownouts", "done": true}, {"label": "Mira", "icon": "ui:bot", "sub": "In Taglish", "done": true}]}</script></div>
         </div>
       </div>
     </div>
@@ -655,7 +797,7 @@ html[data-theme="dark"][data-ground="orange"] { --ground-bg: #1a2440; --ground-s
     </div>
     <div class="sitefoot__legal">
       <span>&copy; 2026 Team Visionaries</span>
-      <nav aria-label="Footer"><a href="#top">Home</a><a href="#app">Ask Mira</a><a href="#forecast">The app</a><a href="#setup">Setup</a><a href="#questions">Questions</a></nav>
+      <nav aria-label="Footer"><a href="#top">Home</a><a href="#features">Features</a><a href="#app">Ask Mira</a><a href="#forecast">The app</a><a href="#meter">Smart meter mode</a><a href="#meralco">For Meralco</a><a href="#setup">Setup</a><a href="#questions">Questions</a></nav>
     </div>
   </div>
 </footer>

diff --git a/landing/README.md b/landing/README.md
@@ -16,11 +16,14 @@ follows the visitor's choice (the sun/moon button, remembered) or else opens in 
 | Section | Shows |
 |---|---|
 | Hero | Fluted glass over a blurred sunset behind a house; glass cards with the app's live and bill figures, the headline, Book a demo, a five-item feature strip |
-| `#app` | Ask Mira: the real conversation ("Bakit mataas ang bill ko?") in front of the real Home screen |
+| `#features` | Eight feature cards, one per feature slide of the presentation (`SOLARIS_PRESENTATION.md`, slides 5 to 12) |
+| `#app` | Ask Mira: the real conversation ("Bakit mataas ang bill ko?") and its sources, in front of the real Home screen |
 | `#bill` | The bill forecast in the app's deep orange, beside the real Bill & Savings screen |
-| `#forecast` | The app screen by screen: real Energy, Brownout Advisor and Alerts screens |
-| `#questions` | Six questions in two columns |
-| `#setup` | Inverter, Solaris device, app, alerts, Mira (diagram) |
+| `#forecast` | The app screen by screen: real Energy, Solar tips, Your household, System check, Brownout Advisor and Alerts screens |
+| `#meter` | Smart meter mode and the three setups, with the real meter-only Home and its rate-level warning |
+| `#meralco` | How Solaris helps Meralco serve its customers (slide 13): what works today, what needs a partnership, privacy |
+| `#questions` | Eight questions in two columns |
+| `#setup` | Inverter or meter, Solaris device, app, alerts, Mira (diagram) |
 | Footer | Book a demo; Team Visionaries, who built what, GitHub and email |
 
 **The phone screens are real.** `assets/app/*-day.jpg` and `*-night.jpg` are screenshots of the Flutter app
@@ -28,16 +31,18 @@ follows the visitor's choice (the sun/moon button, remembered) or else opens in 
 is the server's example data (`docs/contracts/examples/`). The day set shows in the light theme, the night set in
 the dark one. To capture them again after the app changes: `flutter build web`, serve `app/build/web`, run the
 server with `SOLARIS_MOCK=1`, open each route at 393x852 with `flutter.onboarded` and `flutter.appearance` set in
-localStorage, and save each screen as a 590x1278 JPEG under the same names.
+localStorage, and save each screen as a 590x1278 JPEG under the same names. `tips` and `household` are Home
+scrolled to those cards, `check` is Bill scrolled to the system check, and `meter` / `metersave` are Home with the
+mock server switched to the meter-only setup (`PUT /api/settings {"setup": "meter_only"}`, then back to `solar`).
 
 - **Colours and type** are the app's own (`app/lib/core/theme/app_theme.dart`): cream and orange by day, its navy at
   night, DM Sans.
 - **The glass** is `assets/solaris-glass.js`: a small WebGL shader that renders once into each `[data-glass]`
   section's background (scenes `sunset` and `band`), redrawn on resize. Without WebGL the CSS background stays.
-- **Every number in the copy** comes from the repo: readings every 5 s (`docs/contracts/B-mqtt.md`), the ₱15.06/kWh
-  default rate (`server/app/config.py`), the 48-hour Open-Meteo outlook and its 7- and 14-day fallbacks, Qwen 3.5 on
-  Ollama (`server/ai/README.md`). The bill and live figures in the copy and the hero cards (₱746, ₱1,995, 3.1 kW,
-  78%) match the app screens, so the page never shows two different numbers for one thing.
+- **Every number in the copy** comes from the repo: readings every 5 s (`docs/contracts/B-mqtt.md`), Meralco's published
+  ₱15.0615/kWh rate (October 2026 billing, fetched by `server/app/meralco.py`; ₱15.06 default in `server/app/config.py`), the 48-hour Open-Meteo outlook and its 7- and 14-day fallbacks, Qwen 3.5 on
+  Ollama (`server/ai/README.md`). The bill and live figures in the copy and the hero cards (₱857, ₱2,310, ₱2,123–₱2,497,
+  3.1 kW, 78%) match the app screens, so the page never shows two different numbers for one thing.
 
 ## Still to supply
 

diff --git a/SOLARIS_PRESENTATION.md b/SOLARIS_PRESENTATION.md
@@ -274,7 +274,7 @@ Show the Household card: the 24-hour activity strip, the “likely home now” s
 - Voltage quality: whether the supply is normal, too low, or too high, with the last 24 hours’ minimum and maximum
 - Usage pattern: daily use, peak hours, night share, and weekday versus weekend use
 - **Meralco rate level this month:** which consumption level the month is heading for and its price per kWh
-- **Level warning:** “You are 132 kWh above the 400 kWh level; cutting about 7 kWh a day could save ₱2,096”
+- **Level warning:** “You are 132 kWh above the 400 kWh level; cutting about 7 kWh a day could save ₱2,369”
 - Always-on load in kWh and pesos per month
 - The meter’s import reading, the same number Meralco reads
 - Brownout and grid-restored alerts from the meter, with advice to protect appliances
